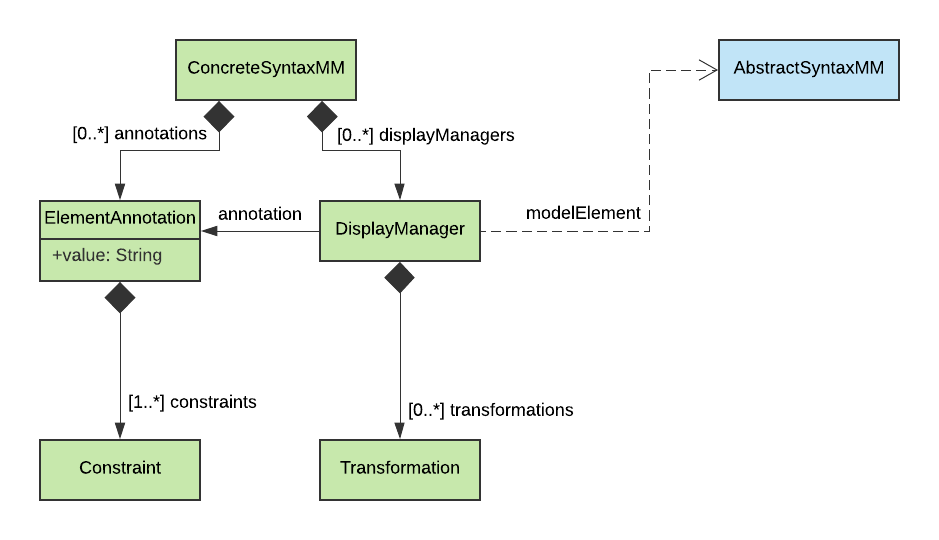
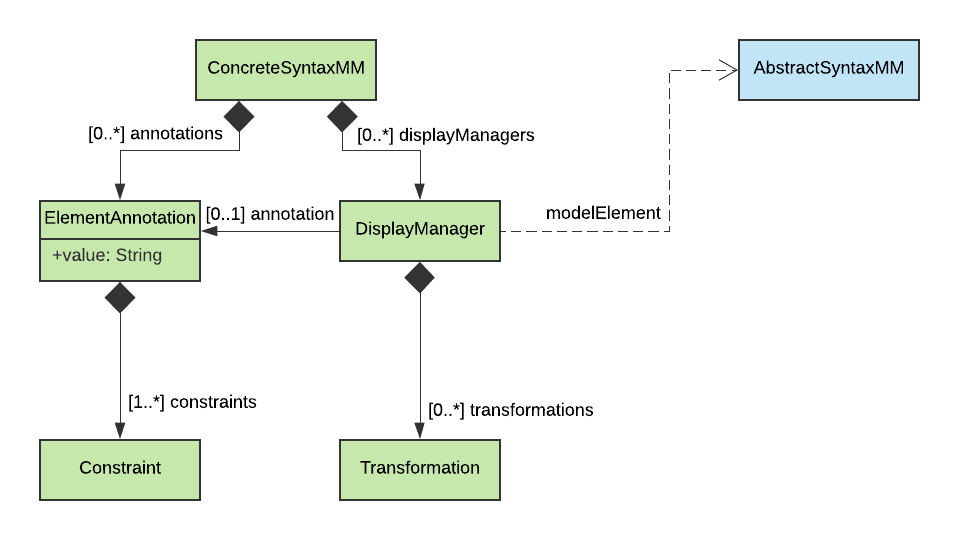
sync

diff --git a/Thesis/chapters/design.tex b/Thesis/chapters/design.tex
@@ -1,4 +1,5 @@
 \chapter{Design Concept}
+% \raggedbottom
 \label{chap:design}
 In Section \ref{sec:CouchEdit} it was established that CouchEdit is composed of three distinct metamodels as depicted in Figure \ref{fig:transmm}. Thus is seems apparent that the proposed concept should also be composed of these three metamodels. The definition of abstract syntax metamodels has already standardized approaches (e.g. Ecore\footnote{\url{https://www.eclipse.org/modeling/emf/}}) and thus is mostly ignored. Furthermore, the proposed design currently only supports a render metamodel definition composed of graphic primitives. Complex graphic structures would have to be explored in follow up works. This work focuses on the concrete syntax metamodel, that connects render and abstract syntax and proposes an approach to formalize this connection.
 
@@ -155,7 +156,7 @@ To alleviate this problem, the proposed architecture introduces an Annotation sy
   \label{fig:kind-recognition}
 \end{figure}
 
-The similarity to the \texttt{DisplayManager} recognition part means that it can actually replace this part, which is done in this concept. Instead of checking \texttt{Constraints} themselves, syntax recognition processors, only just check if a given GO has a certain Kind and if this is true, the corresponding DisplayManager is added. As shown in figure \ref{fig:Transition-Kind-Recognition}, when a GO, representing a transition is added, the TransitionKindProcessor, first adds a Kind of the type Transition. The TransitionRecognitionProcessor then finds the GO that now has a Transition Kind and adds the corresponding Transition DisplayManager.
+The similarity to the \texttt{DisplayManager} recognition part means that it can actually replace this part, which is done in this concept. Instead of checking \texttt{Constraints} themselves, \texttt{DisplayManager} recognition processors just check if a given GO has a certain annotation attached and if this is true, the corresponding \texttt{DisplayManager} is added. As shown in Figure \ref{fig:Transition-Kind-Recognition}, when a GO, representing a transition is added, the \texttt{TransitionAnnotationProcessor}, first adds an \texttt{ElementAnnotation} with the value \texttt{Transition}. The \texttt{TransitionRecognitionProcessor} then finds the GO which now is annotated with the value \texttt{Transition} and adds a \texttt{TransitionDM}.
 
 \begin{figure}[ht]
 \centering
@@ -164,23 +165,23 @@ The similarity to the \texttt{DisplayManager} recognition part means that it can
 \label{fig:Transition-Kind-Recognition}
 \end{figure}
 
-With the definition of a convenience member function that checks if an Element has a given Kind, the Place incoming transition invariant can now be rewritten as follows: 
-\begin{lstlisting}[language=OCL]
+With the definition of a convenience member function that checks if an element has a given Annotation, the place incoming transition rule can now be rewritten as follows: 
+\begin{lstlisting}[captionpos=b,caption={Improved incoming transition \texttt{Rule}, that also filters for elements with a \texttt{Transition} annotation}]
 dm.me.incoming = 
     dm.go
-        .allRelatedTo(ConnectionEnd, 
+        .allRelatedTo(ConnectionEnd,
             rel -> rel.isEndConnection)
         .select(go -> go.shape is Line)
         .collect(go -> go.relatedFrom(ConnectionEnd))
-        .select(go -> go.hasKind(Transition))
+        .select(go -> go.hasAnnotation(Transition))
         .collect(go -> go.dm.me.ref())
 \end{lstlisting}
 
 
-It is important to note that the Kind system isn't exclusive to GOs that have an abstract representation. For GO's with a corresponding DisplayManager, the DM type can just be checked to find out if it connects a model element of a certain type. But the Kind system can also be used to recognize all sorts of patterns in the graph, that would otherwise have to be checked repeatedly.
+It is important to note that the \texttt{Annotation} system isn't exclusive to GOs that have an abstract representation. For GO's with a corresponding \texttt{DisplayManager}, the \texttt{DM} type can just be checked to find out if it connects a model elements of a certain type. Rather, the \texttt{Annotation} system can also be used to recognize all sorts of patterns in the graph, that would otherwise have to be checked repeatedly. For example. it could be used to define a stricter check, on what element in a petri net Graph represents a token.
 
 \subsection{Metamodel}
-As mentioned in the last section, because of the introduction of the kind system, the SyntaxProcessor model has to be revised. SyntaxProcessor definitions do not implement constraints themselves anymore. Instead they have a reference to a Kind definition and Kind definitions now implement constraints \ref{fig:revised-syntax-model}. 
+As mentioned in the last section, because of the introduction of the \texttt{Annotation} system, the \texttt{DisplayManager} definition model has to be revised. Instead of possessing a set of constraints, \texttt{DisplayManager} definitions, they have a reference to an \texttt{ElementAnnotation} (Figure \ref{fig:revised-syntax-model}).
 
 \begin{figure}
 \centering
@@ -254,4 +255,4 @@ This causes the LabelProcessor to calculate outer proximity LabelFor relations f
 This LabelProcessor plugin is by no means a perfect implementation of the given problem, rather it gives a general idea of the purpose and applicability for the plugin system, as well as an idea of how specialized the definition of plugin configurations can become. The requirements of plugin configurations, forces DSL implementations of this metamodel to potentially be updated every time a new plugin with custom configuration is added to the system. Alternatively an approach for more general plugin configuration has to be explored
 
 
-\comment{abschluss section wäre ganz cool, aber mir fällt momentan kein guter weg ein alles sauber zusammen zu führen}
+In this chapter, the developed metamodel was introduced step by step. The base idea for this metamodel was derived from Fondement and Baar \cite{fondement_making_2005}, but was partially modified and extended to serve requirements posed by the CouchEdit architecture. The complete metamodel is depicted in Figure \ref{fig:complete-metamodel}. 

diff --git a/Thesis/chapters/prototype.tex b/Thesis/chapters/prototype.tex
@@ -1,24 +1,82 @@
 \chapter{Prototype}
-CouchEdit's current running example is completely written in Kotlin\footnote{\url{https://kotlinlang.org/}}, a programing language with the ability to compile to the Java virtual machine platform. Thus, Kotlin enables access to Java's ecosystem of libraries and Frameworks. TornadoFX\footnote{\url{https://tornadofx.io/}}, a JavaFX wrapper, is used as UI Framework. As a modeling tool, GMF\footnote{\url{https://www.eclipse.org/gmf-tooling/}} was integrated. Dependencies are handled using the Dependency Injection framework Guice\footnote{\url{https://github.com/google/guice}}, which integrates perfectly with CouchEdit's modular architecture. More information about the current prototype and its features can be found in \cite{nachreiner_couchedit_2020}.
+Along side the development of the metamodel, described in Chapter \ref{chap:design}, a prototype was developed as well, which serves as a proof of concepts for design decisions made. This prototype is realized as an extensions of CouchEdit's current existing prototype, developed bei Nachreiner and presented in \cite{nachreiner_couchedit_2020}.
+
+CouchEdit's current running prototype is completely written in Kotlin\footnote{\url{https://kotlinlang.org/}}, a programing language with the ability to compile to the Java virtual machine platform. Thus, Kotlin enables access to Java's ecosystem of libraries and Frameworks. TornadoFX\footnote{\url{https://tornadofx.io/}}, a JavaFX wrapper, is used as UI Framework. As a modeling tool, GMF\footnote{\url{https://www.eclipse.org/gmf-tooling/}} was integrated. Dependencies are handled using the Dependency Injection framework Guice\footnote{\url{https://github.com/google/guice}}, which integrates perfectly with CouchEdit's modular architecture. More information about the current prototype and its features can be found in \cite{nachreiner_couchedit_2020}.
 
 In theory, integrating CouchEdit with a parser that can evaluate language configurations at runtime would be preferable. This would make it possible to hot swap configurations while the software is running. Instead, the prototype was extended by a code generator. This has multiple reasons. The current implementation is relying on the existence of class definitions. Meaning, at certain points in the code types of Elements are checked (e.g. \texttt{elem is PlaceDM}). A runtime parser would have to either create workarounds for these type checks or compile the needed classes at runtime, using byte code manipulation. A code generator can generate all class definitions directly and thus solves this problem without any extra effort. Furthermore a code generator can work with a metamodel that is not fully defined. As noted in Chapter \ref{chap:design}, low level languages concepts were not fully defined, as they depend on the actual language implementation. To circumvent the problem of defining an actual language implementation for these low level concepts, the implemented parser opts to simple replace these parts with strings. Statements and expressions, can simply be written directly into these Strings, which are then placed into the generated code, without any further analysis of their correctness. This means, that these strings have to contain Kotlin code. Furthermore, needed language concepts have to be provided by the Kotlin implementation itself.
 
 The Code Generator was implemented as a separate sub module of the existing prototype. It contains its own runnable method that, when executed, will generate a new module. This module contains the language configuration, which is loaded by the model application when started and automatically configured the editor modeling language. For code generation purposes FreeMarker\footnote{\url{https://freemarker.apache.org/}} is used. FreeMarker is a language agnostic template engine, and therefore allows for the generation of kotlin code out of the box. 
 
-To ease the effort of defining language configurations, it was also decided to implement an internal DSL, using Kotlin's integrated capabilities\footnote{\url{https://kotlinlang.org/docs/reference/type-safe-builders.html}}.
+To ease the effort of defining language configurations, it was also decided to implement an internal DSL, using Kotlin's integrated capabilities\footnote{\url{https://kotlinlang.org/docs/reference/type-safe-builders.html}}. Furthermore, Kotlin's script API was utilized to allow for configuration files being loaded at runtime. Each CouchEdit configuration consists of three files, \texttt{RenderMM}, \texttt{ConcreteMM} and \texttt{AbstractMM}, describing each of the three sub metamodels, the CouchEdit configuration si composed of. Below the developed DSL is described.
 
+\section{Kotlin DSL}
+The CouchEdit DSL is composed of three distinct parts, one for each of the three sub metamodels, defined by the CouchEdit configuration metamodel. 
+
+\subsection{Render DSL}
+Given the simplicity of the \texttt{RenderMetamodel} defined in this work, the corresponding DSL does not encompass a lot of grammar. Similar to an enum definition common to most programming languages, the RenderMM 
+
+
+An example of such a render model definition for a Petri nets configuration, can be seen in Figure \ref{lst:petri-rendermm}
+
+\subsection{Abstract DSL}
 
 
 
 \begin{itemize}
-  \item functions and stuff
-  \item kts
-  \item generate module
+  \item Class
+  \item enums
+  \item default datatypes
 \end{itemize}
+
+
+key methods: 
+\begin{itemize}
+  \item superType
+  \item attr
+  \item ref
+  \item comp
+\end{itemize}
+
+\subsection{Concrete DSL}
+
+\begin{description}
+  \item[helper]
+  \item[annotations]
+  \item[plugins]
+  \item[displayManagers]
+\end{description}
+
 
 
 \section{Example 1: Petri Nets}
 
+\ref{app:petri}
+
+plugins:
+\begin{itemize}
+  \item connection
+  \item label
+\end{itemize}
+
+\begin{itemize}
+  \item config 148 lines
+  \item generated 791 lines
+\end{itemize}
+
 
 
 \section{Example 2: State Charts}
+
+\ref{app:state}
+
+plugins:
+\begin{itemize}
+  \item compartmentDetector
+  \item label 
+\end{itemize}
+
+\begin{itemize}
+  \item problematic plugin design
+  \item config 196 lines
+  \item generated 1331 lines
+\end{itemize}

diff --git a/Thesis/ba_hannah_lappe.tex b/Thesis/ba_hannah_lappe.tex
@@ -23,6 +23,10 @@ leqno					% equation numbers to the left
 % inkscape=newer to avoid re-export if nothing has changed in the svg. inkscapelatex=false for not using latex to render text (which in turn messes up all text in image). inkscapearea = page so that the SVG size is respected and borders in the SVG are not cut off
 %\usepackage[inkscape=newer, inkscapelatex=false, inkscapearea=page]{svg} 
 
+\usepackage{silence}
+\WarningFilter{hyphenat}{***}
+\WarningFilter{latexfont}{Font}
+\WarningFilter{latexfont}{Some}
 
 \pagestyle{headings}
 \usepackage{blindtext}
@@ -31,6 +35,9 @@ leqno					% equation numbers to the left
 \usepackage[ngerman, USenglish]{babel}
 \usepackage[utf8]{inputenc}
 \usepackage[T1]{fontenc}
+
+
+\usepackage[htt]{hyphenat}
 
 % enable HERE positioning %
 \usepackage{float}
@@ -50,7 +57,14 @@ leqno					% equation numbers to the left
 
 % Literaturverzeichnis mit BibLaTeX // use Biber as Backend; dashed = false to repeat author names
 \usepackage[babel]{csquotes}
-\usepackage[backend=biber,style=ieee,dashed=false,hyperref,natbib]{biblatex}
+\usepackage[
+  backend=biber,
+  style=ieee,
+  dashed=false,
+  hyperref,
+  natbib,
+  % block=ragged
+  ]{biblatex}
 \addbibresource{BA.bib}
 
 % Für Tabellen mit fester Gesamtbreite und variabler Spaltenbreite
@@ -292,33 +306,33 @@ pdfborder=0 0 0	% keine Box um die Links!
 \newgeometry{left=1.9cm, right=1.9cm, top=2.9cm, bottom=2.8cm}
 \begin{titlepage}
   \fontfamily{phv}\selectfont % Helvetica als Schriftart
-	\hfill\includegraphics[height=2.0cm]{images/logo_100_sRGB}\\[3.5cm] % Uni Ulm Logo 
-	\begin{flushright}
-		\Huge \textbf{\titel}\\[0.2cm]
-		\fontsize{19}{20}\selectfont \textbf{\untertitel}\\
-	\end{flushright}
-	
-	\vfill\hfill
-	\parbox[t]{4.6cm}{
-		\singlespacing
-		\large
-		\textbf{\fullname}\\
-		\\
-		Universität Ulm\\
-		\\
-		Fakultät für\\
-		Ingenieurwissenschaften\\
-		und Informatik\\
-		\\
-		Institut für\\
-		Programmiermethodik\\
-		und Compilerbau\\
-		\\
-		\abgabedatum\\
-		\\
-		{\abschlussarbeit} im\\
-		Studiengang Informatik
-	}
+  \hfill\includegraphics[height=2.0cm]{images/logo_100_sRGB}\\[3.5cm] % Uni Ulm Logo 
+  \begin{flushright}
+    \Huge \textbf{\titel}\\[0.2cm]
+    \fontsize{19}{20}\selectfont \textbf{\untertitel}\\
+  \end{flushright}
+
+  \vfill\hfill
+  \parbox[t]{4.6cm}{
+  \singlespacing
+  \large
+  \textbf{\fullname}\\
+  \\
+  Universität Ulm\\
+  \\
+  Fakultät für\\
+  Ingenieurwissenschaften\\
+  und Informatik\\
+  \\
+  Institut für\\
+  Programmiermethodik\\
+  und Compilerbau\\
+  \\
+  \abgabedatum\\
+  \\
+  {\abschlussarbeit} im\\
+  Studiengang Informatik
+  }
 \end{titlepage}
 \restoregeometry
 
@@ -340,24 +354,24 @@ Abstract Abstract Abstract Abstract Abstract Abstract Abstract Abstract Abstract
 Abstract Abstract Abstract Abstract Abstract Abstract Abstract Abstract Abstract,
 Abstract Abstract Abstract Abstract Abstract Abstract Abstract Abstract Abstract.
 
-% !ignore-section
-{
-	\null
-	\small
-	\vfill
-	\begin{center}
-		\begin{tabular}{l l}
-			Gutachter:  & \gutachterA \\
-			Betreuer:       & \betreuer \\
-		\end{tabular}\\[1cm]
-		Fassung \today\\
-		  \copyright~\jahr~\fullname\\[0.5em]
-		% Wenn Sie Ihre Arbeit unter einer freien Lizenz bereitstellen möchten, können Sie die nächste Zeile in Ihren Code aufnehmen. Bitte beachten Sie, dass Sie hierfür an allen Inhalten, inklusive enthaltener Abbildungen, die notwendigen Rechte benötigen! Beim Veröffentlichungsexemplar Ihrer Dissertation achten Sie bitte darauf, dass der Lizenztext nicht den Angaben in den Metadaten der genutzten Publikationsplattform widerspricht. Nähere Information zu den Creative Commons Lizenzen erhalten Sie hier: https://creativecommons.org/licenses/
-		This work is licensed under the Creative Commons Attribution 4.0 International (CC BY 4.0) License. To view a copy of this license, visit \href{https://creativecommons.org/licenses/by/4.0/}{https://creativecommons.org/licenses/by/4.0/} or send a letter to Creative Commons, 543 Howard Street, 5th Floor, San Francisco, California, 94105, USA. \\
-		
-		Satz: PDF-\LaTeXe
-	\end{center}
-}
+  % !ignore-section
+  {
+    \null
+    \small
+    \vfill
+    \begin{center}
+      \begin{tabular}{l l}
+        Gutachter: & \gutachterA \\
+        Betreuer:  & \betreuer   \\
+      \end{tabular}\\[1cm]
+      Fassung \today\\
+      \copyright~\jahr~\fullname\\[0.5em]
+      % Wenn Sie Ihre Arbeit unter einer freien Lizenz bereitstellen möchten, können Sie die nächste Zeile in Ihren Code aufnehmen. Bitte beachten Sie, dass Sie hierfür an allen Inhalten, inklusive enthaltener Abbildungen, die notwendigen Rechte benötigen! Beim Veröffentlichungsexemplar Ihrer Dissertation achten Sie bitte darauf, dass der Lizenztext nicht den Angaben in den Metadaten der genutzten Publikationsplattform widerspricht. Nähere Information zu den Creative Commons Lizenzen erhalten Sie hier: https://creativecommons.org/licenses/
+      This work is licensed under the Creative Commons Attribution 4.0 International (CC BY 4.0) License. To view a copy of this license, visit \href{https://creativecommons.org/licenses/by/4.0/}{https://creativecommons.org/licenses/by/4.0/} or send a letter to Creative Commons, 543 Howard Street, 5th Floor, San Francisco, California, 94105, USA. \\
+
+      Satz: PDF-\LaTeXe
+    \end{center}
+  }
 
 
 % Inhaltsverzeichnis

diff --git a/Thesis/chapters/appendix.tex b/Thesis/chapters/appendix.tex
@@ -14,8 +14,23 @@
 \end{itemize}
 
 
-\chapter{Petri Nets Configuration}
-\lstinputlisting[breaklines=true]{code/configs/petrinets/ConcreteMM.kts}
+\chapter{Kotlin DSL Configurations}
+\section{Petri Nets Configuration}
+\label{app:petri}
+\subsection*{Render Metamodel}
+\lstinputlisting[breaklines=true,label={lst:petri-rendermm}]{code/configs/petrinets/RenderMM.kts}
+\subsection*{Abstract Metamodel}
+\lstinputlisting[breaklines=true,label={lst:petri-abstractmm}]{code/configs/petrinets/AbstractMM.kts}
+\subsection*{Concrete Metamodel}
+\raggedbottom
+\lstinputlisting[breaklines=true,label={lst:petri-concretemm}]{code/configs/petrinets/ConcreteMM.kts}
 
-\chapter{State Charts Configuration}
+
+\section{State Charts Configuration}
+\label{app:state}
+\subsection*{Render Metamodel}
+\lstinputlisting[breaklines=true]{code/configs/statechartsnew/RenderMM.kts}
+\subsection*{Abstract Metamodel}
+\lstinputlisting[breaklines=true]{code/configs/statechartsnew/AbstractMM.kts}
+\subsection*{Concrete Metamodel}
 \lstinputlisting[breaklines=true]{code/configs/statechartsnew/ConcreteMM.kts}

diff --git a/Thesis/chapters/evaluation.tex b/Thesis/chapters/evaluation.tex
@@ -8,7 +8,7 @@ possible criteria
 \end{itemize}
 
 \section{Applicability}
-metamodel is tgg + hypergraph deckt alles von Bottoni ab -> Metamodel kann in theory jeden modeling syntax configurieren
+metamodel is TGG + hypergraph deckt alles von Bottoni ab -> Metamodel kann in theory jeden modeling syntax konfigurieren
 
 \begin{itemize}
   \item in terms of complexity, was shown that correct plugin design is important

diff --git a/Thesis/chapters/fundamentals.tex b/Thesis/chapters/fundamentals.tex
@@ -171,7 +171,7 @@ The graphic representation of Petri nets is described in table \ref{tab:petri-pr
 \begin{figure}
 \centering
 \includegraphics[width=.7\linewidth]{images/"csd - new-statechart-metamodel"}
-\caption{Abstract Metamodel of Statecharts}
+\caption{Abstract Metamodel of State charts}
 \label{fig:statechartmm}
 \end{figure}
 

diff --git a/Thesis/chapters/conclusion.tex b/Thesis/chapters/conclusion.tex
@@ -1,3 +1,11 @@
 \chapter{Conclusion}
 
 
+
+\begin{itemize}
+  \item develop functional DSL
+  \item check performance loss
+  \item usability test especially in terms of complex graphic objects
+  \item abstract syntax correctness and feedback to user
+\end{itemize}
+
